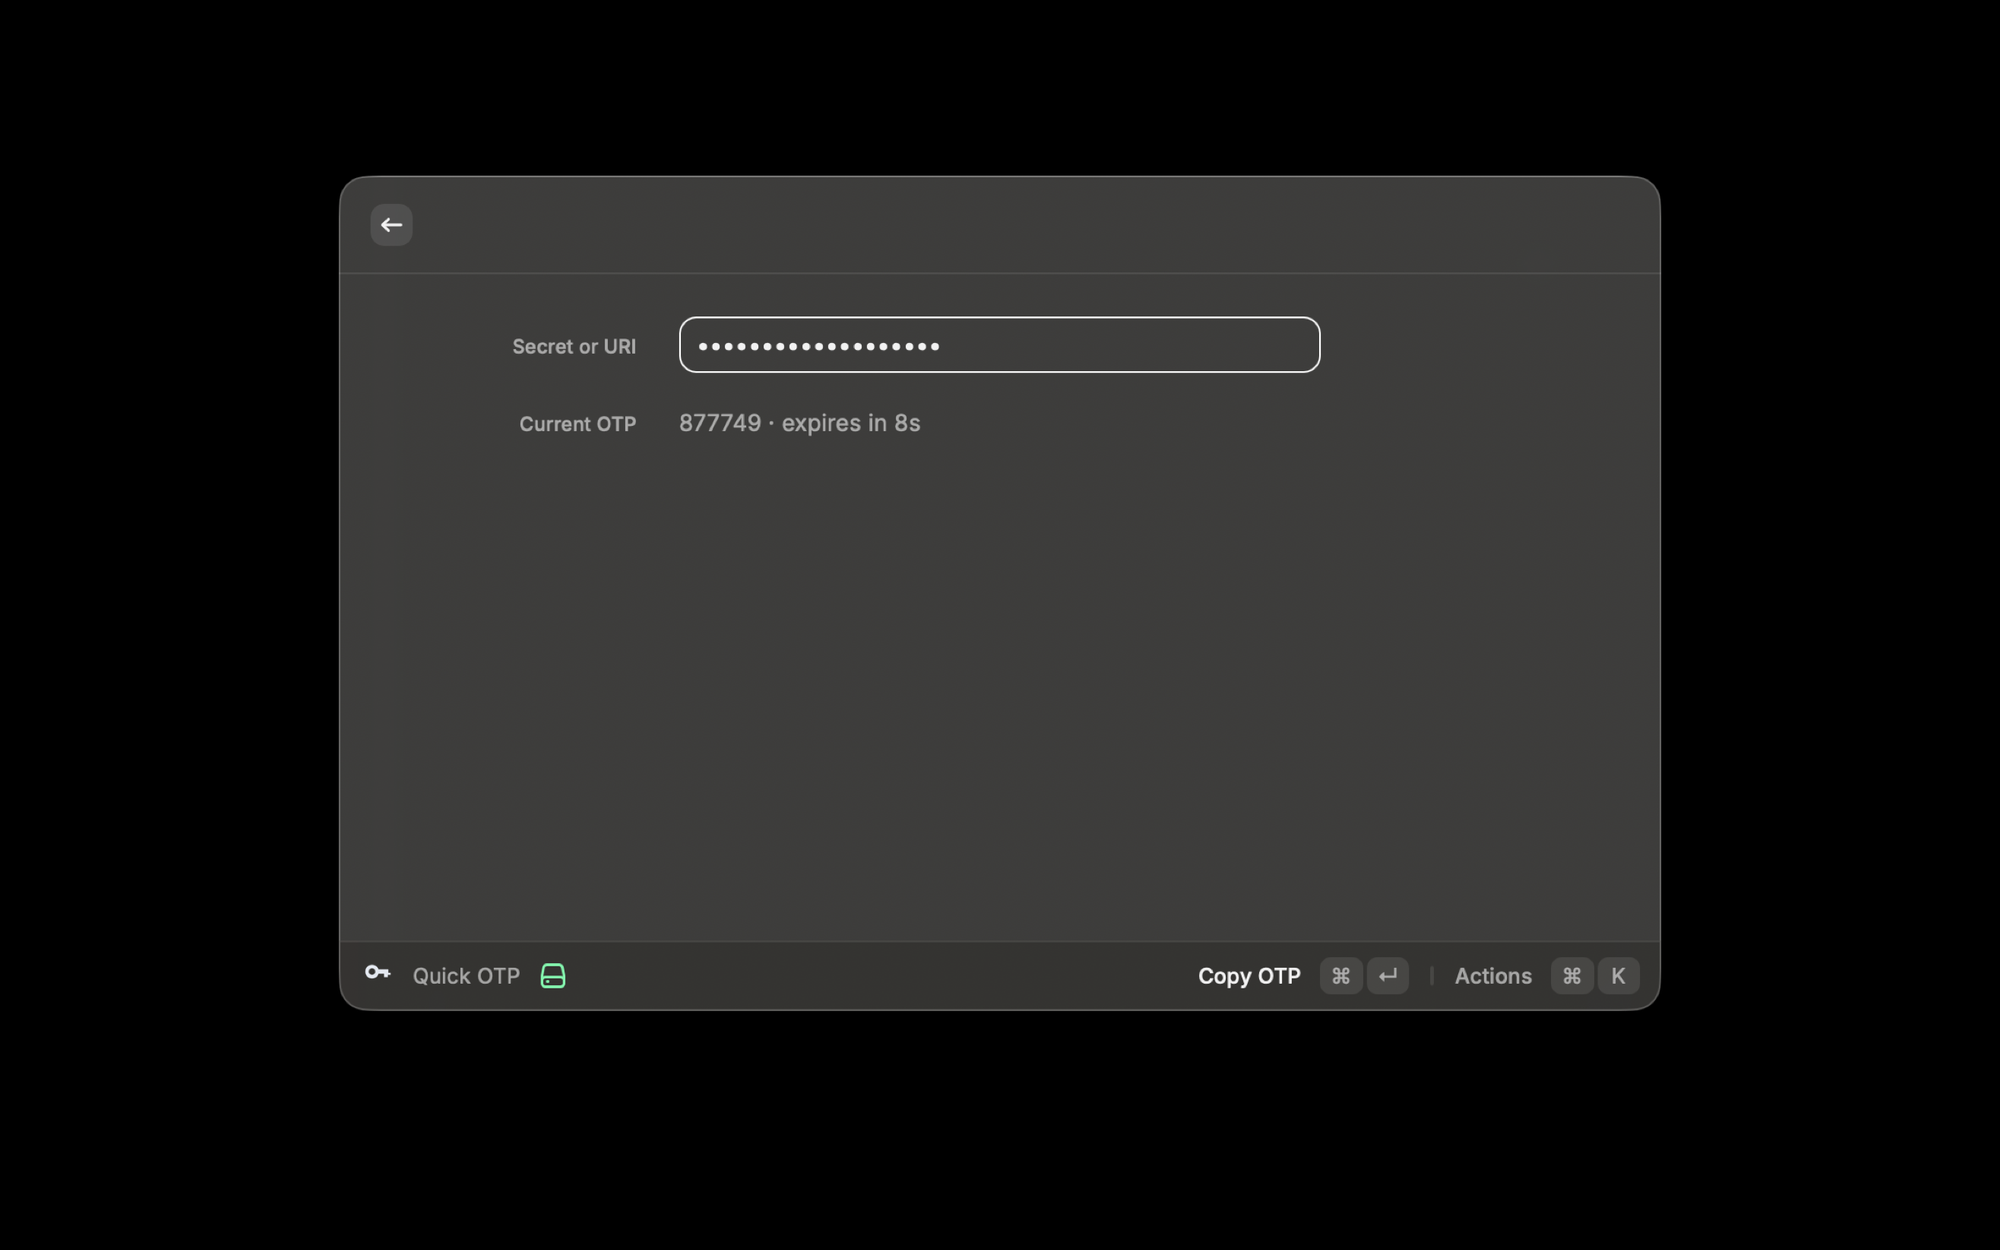
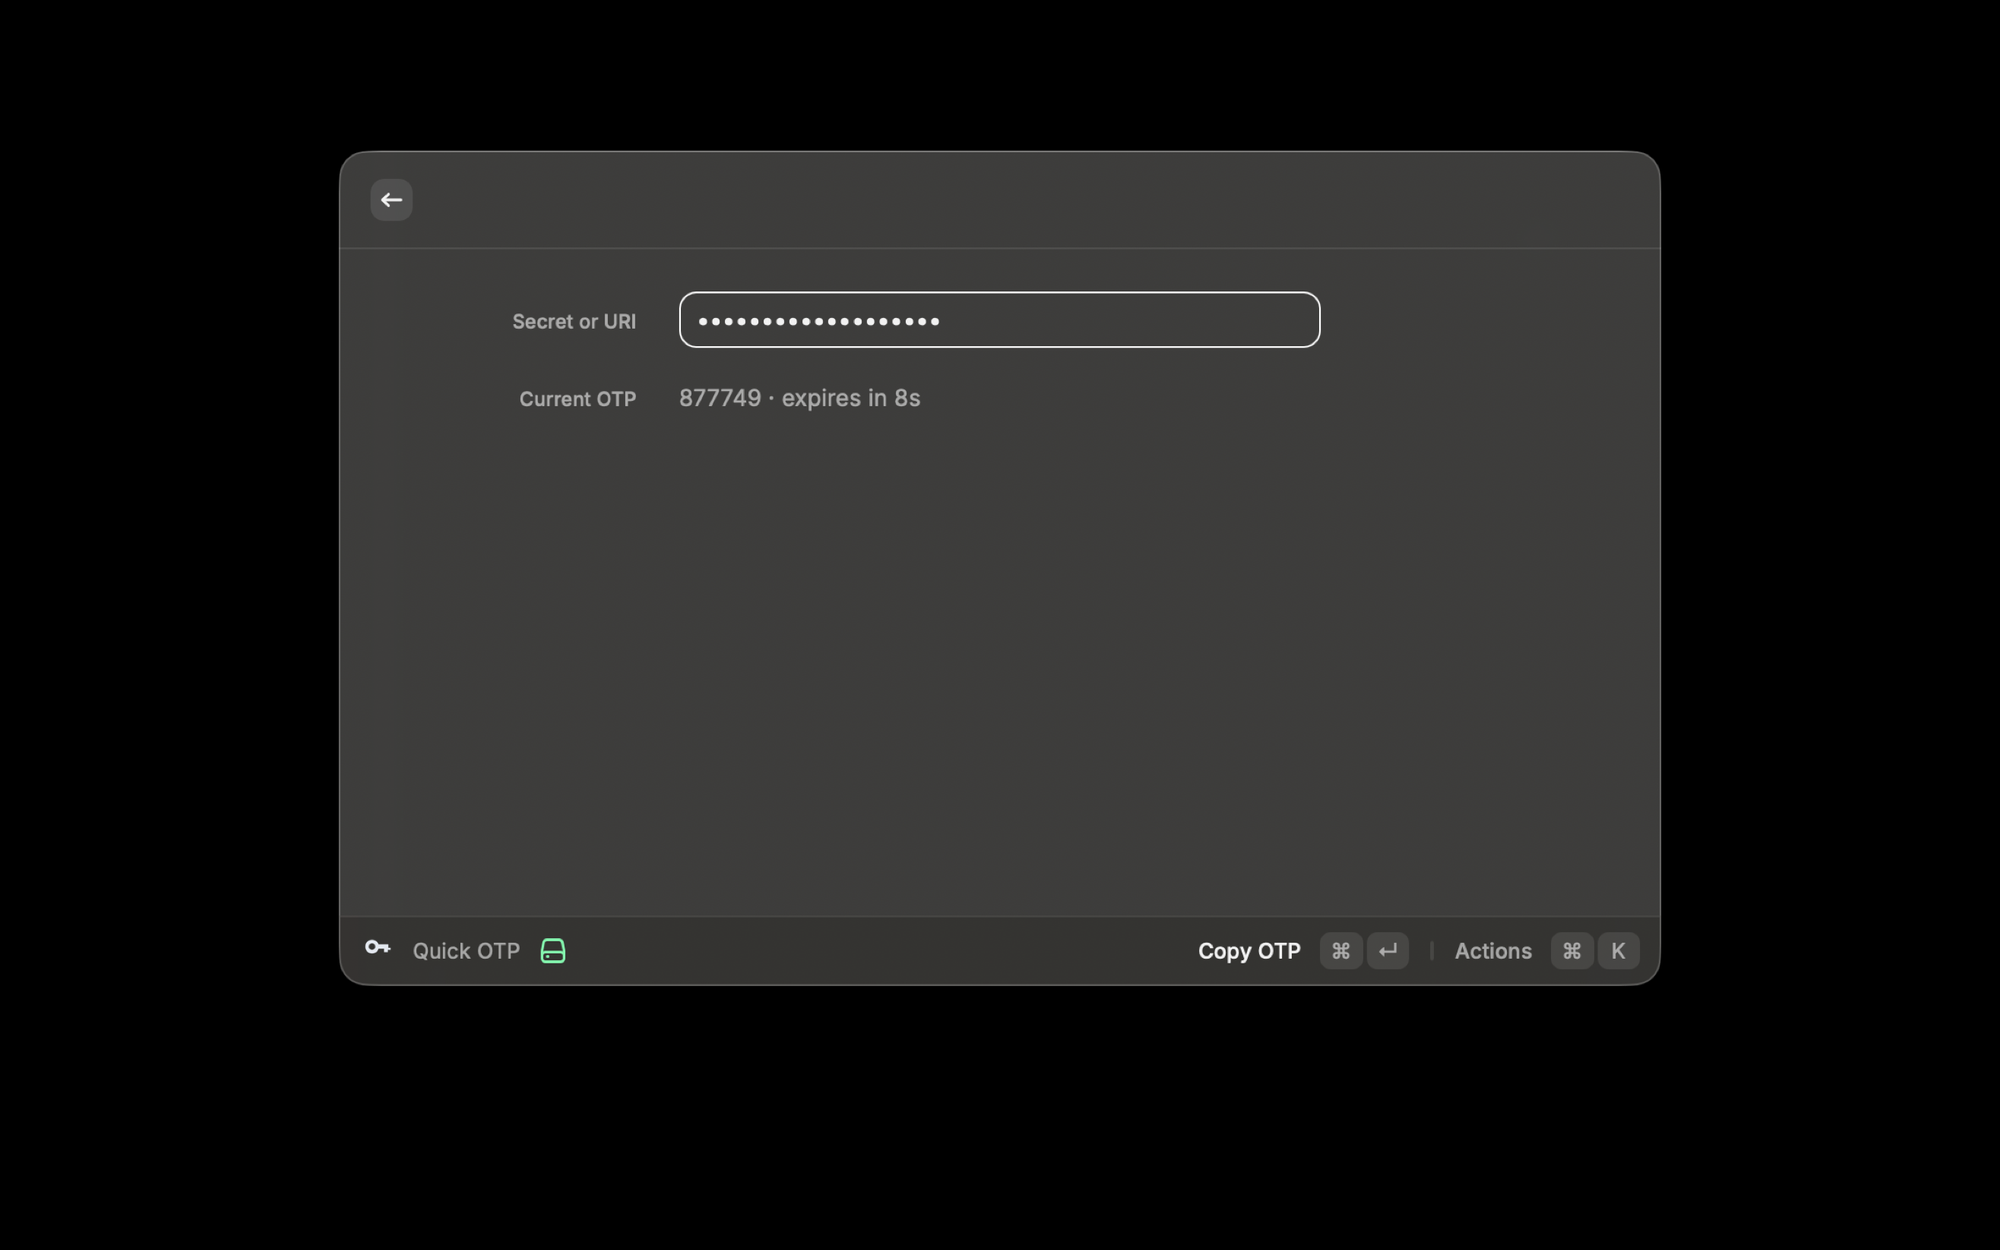
Fix CI and metadata validation

diff --git a/src/backup.ts b/src/backup.ts
@@ -74,8 +74,10 @@ function validateAccounts(value: unknown): Account[] {
     ) {
       throw new Error("Backup contains invalid accounts.");
     }
+    const digits = item.digits as number;
+    const period = item.period as number;
     decodeBase32(item.secret);
-    if (item.digits < 1 || item.digits > 10 || item.period < 1) throw new Error("Backup contains invalid accounts.");
-    return { id: item.id, name: item.name, issuer: item.issuer, secret: item.secret, digits: item.digits, period: item.period, algorithm: item.algorithm as Algorithm };
+    if (digits < 1 || digits > 10 || period < 1) throw new Error("Backup contains invalid accounts.");
+    return { id: item.id, name: item.name, issuer: item.issuer, secret: item.secret, digits, period, algorithm: item.algorithm as Algorithm };
   });
 }
